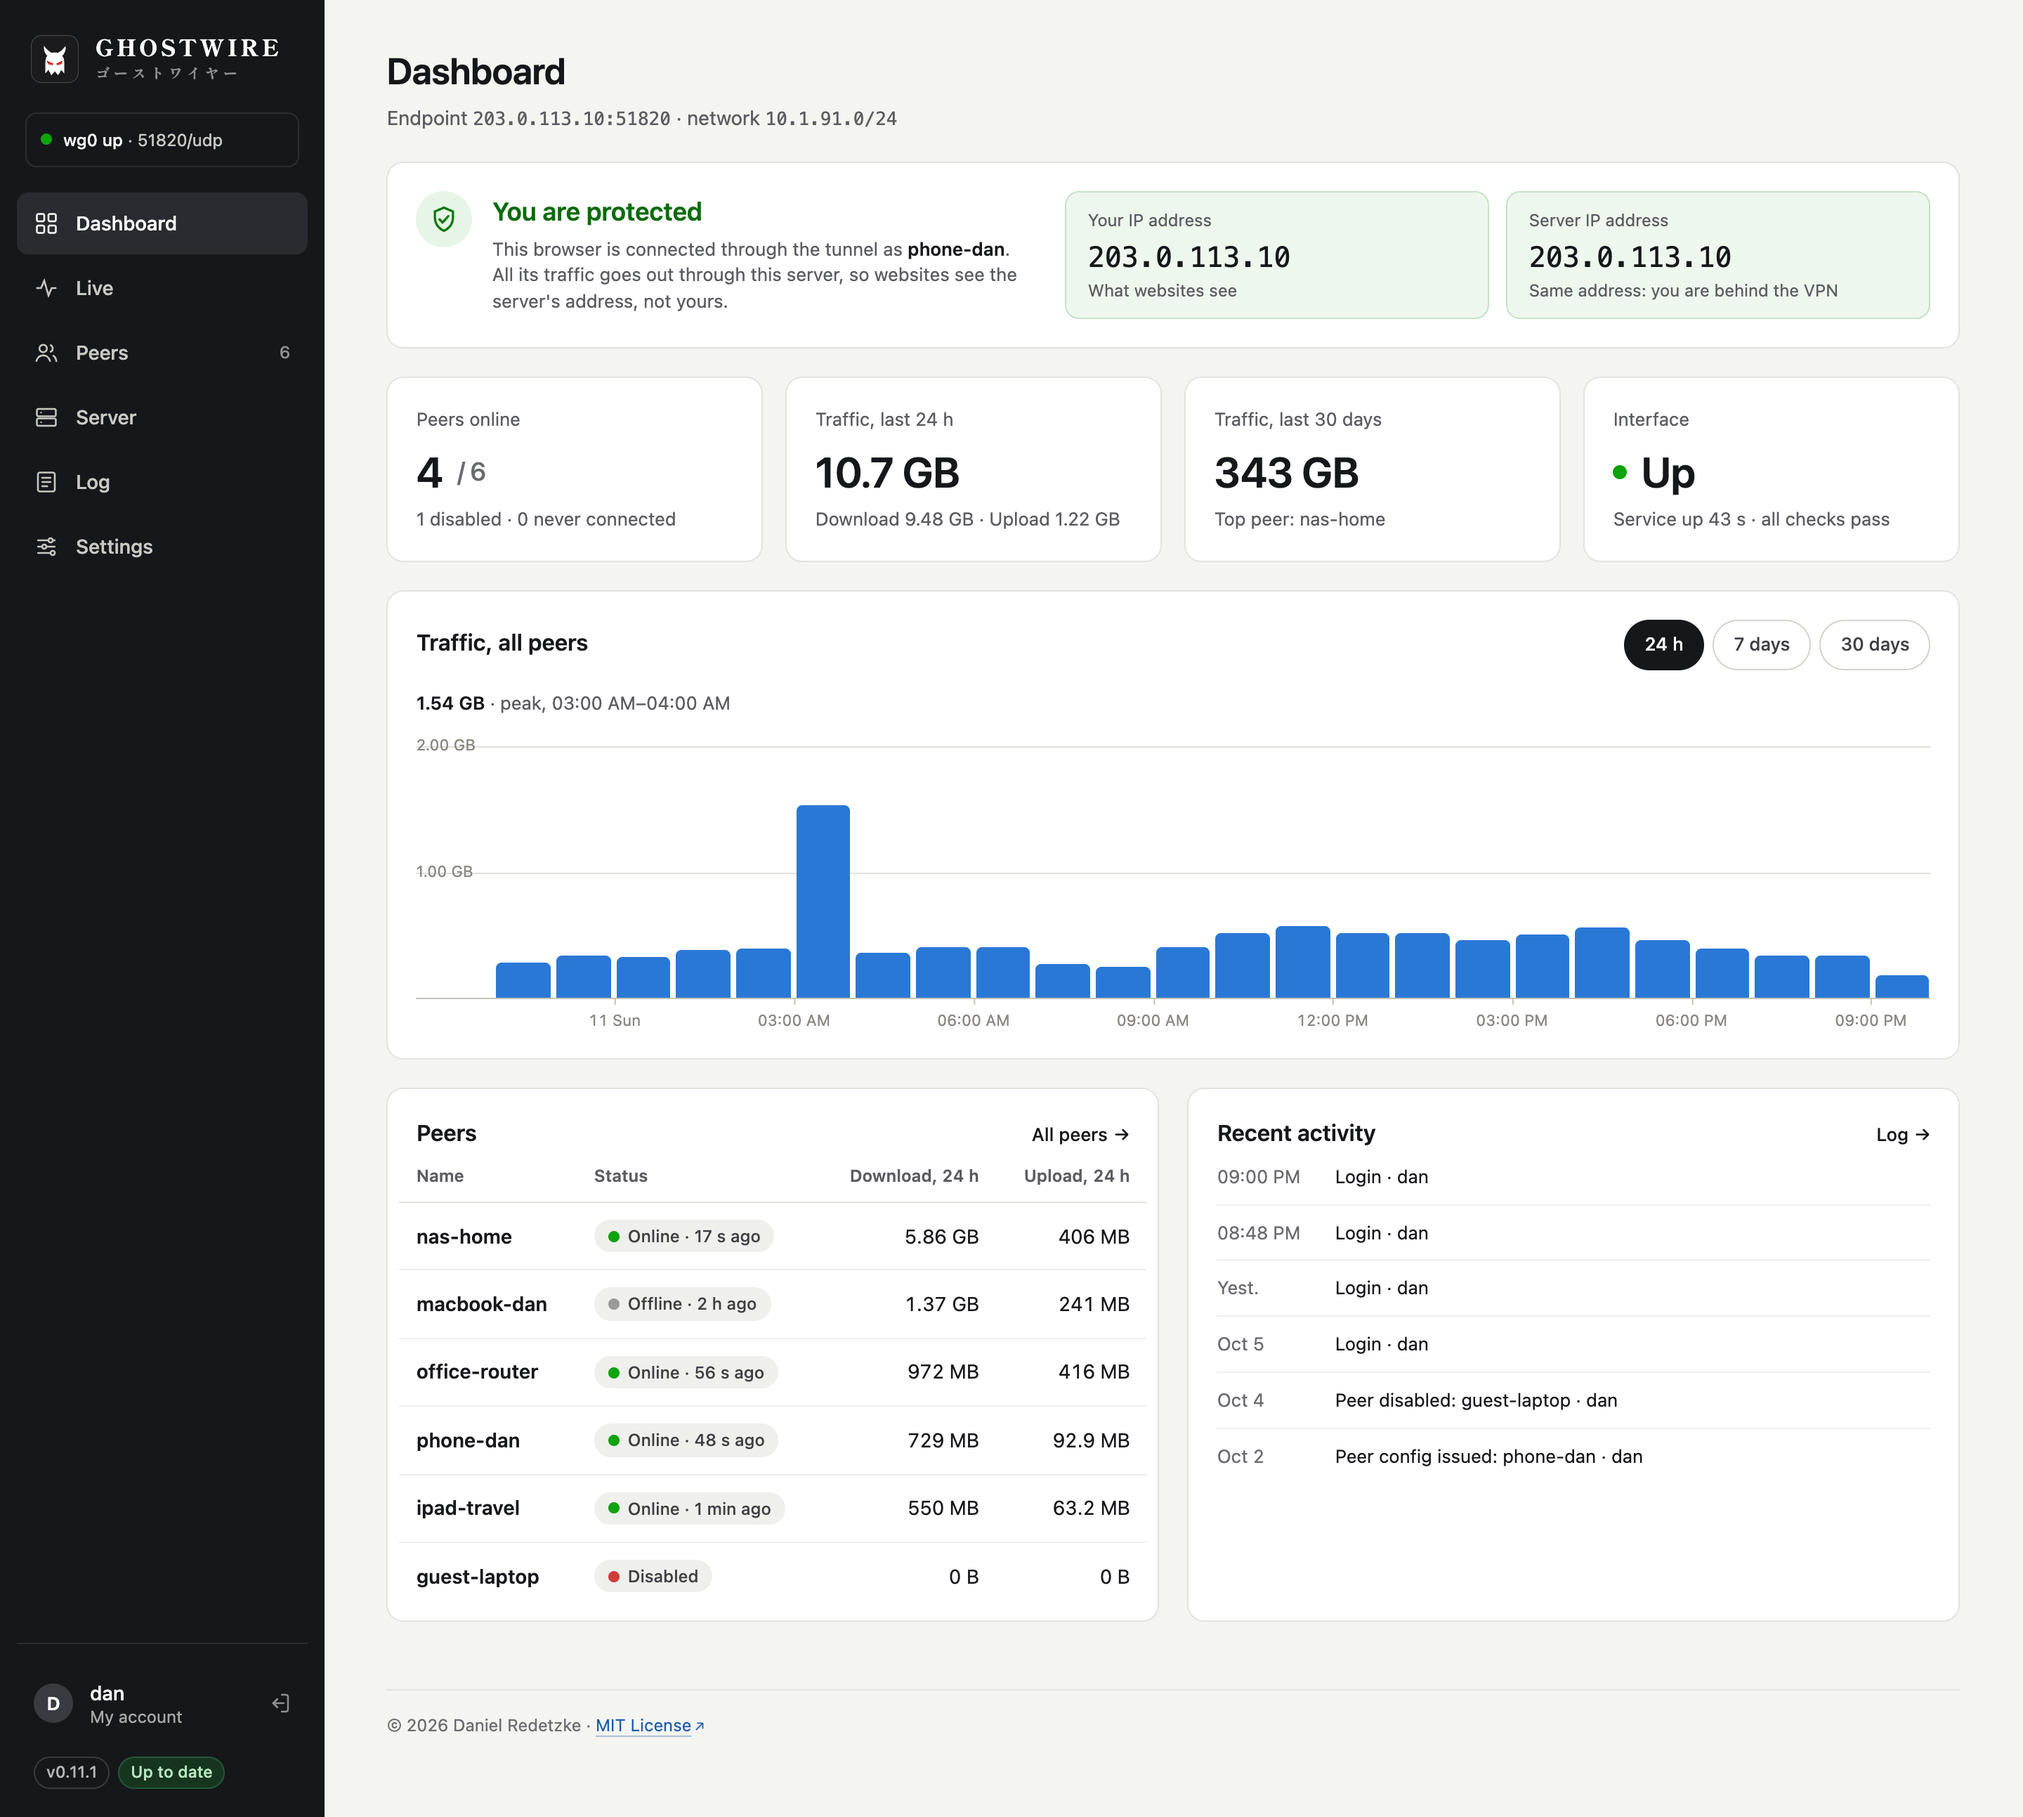
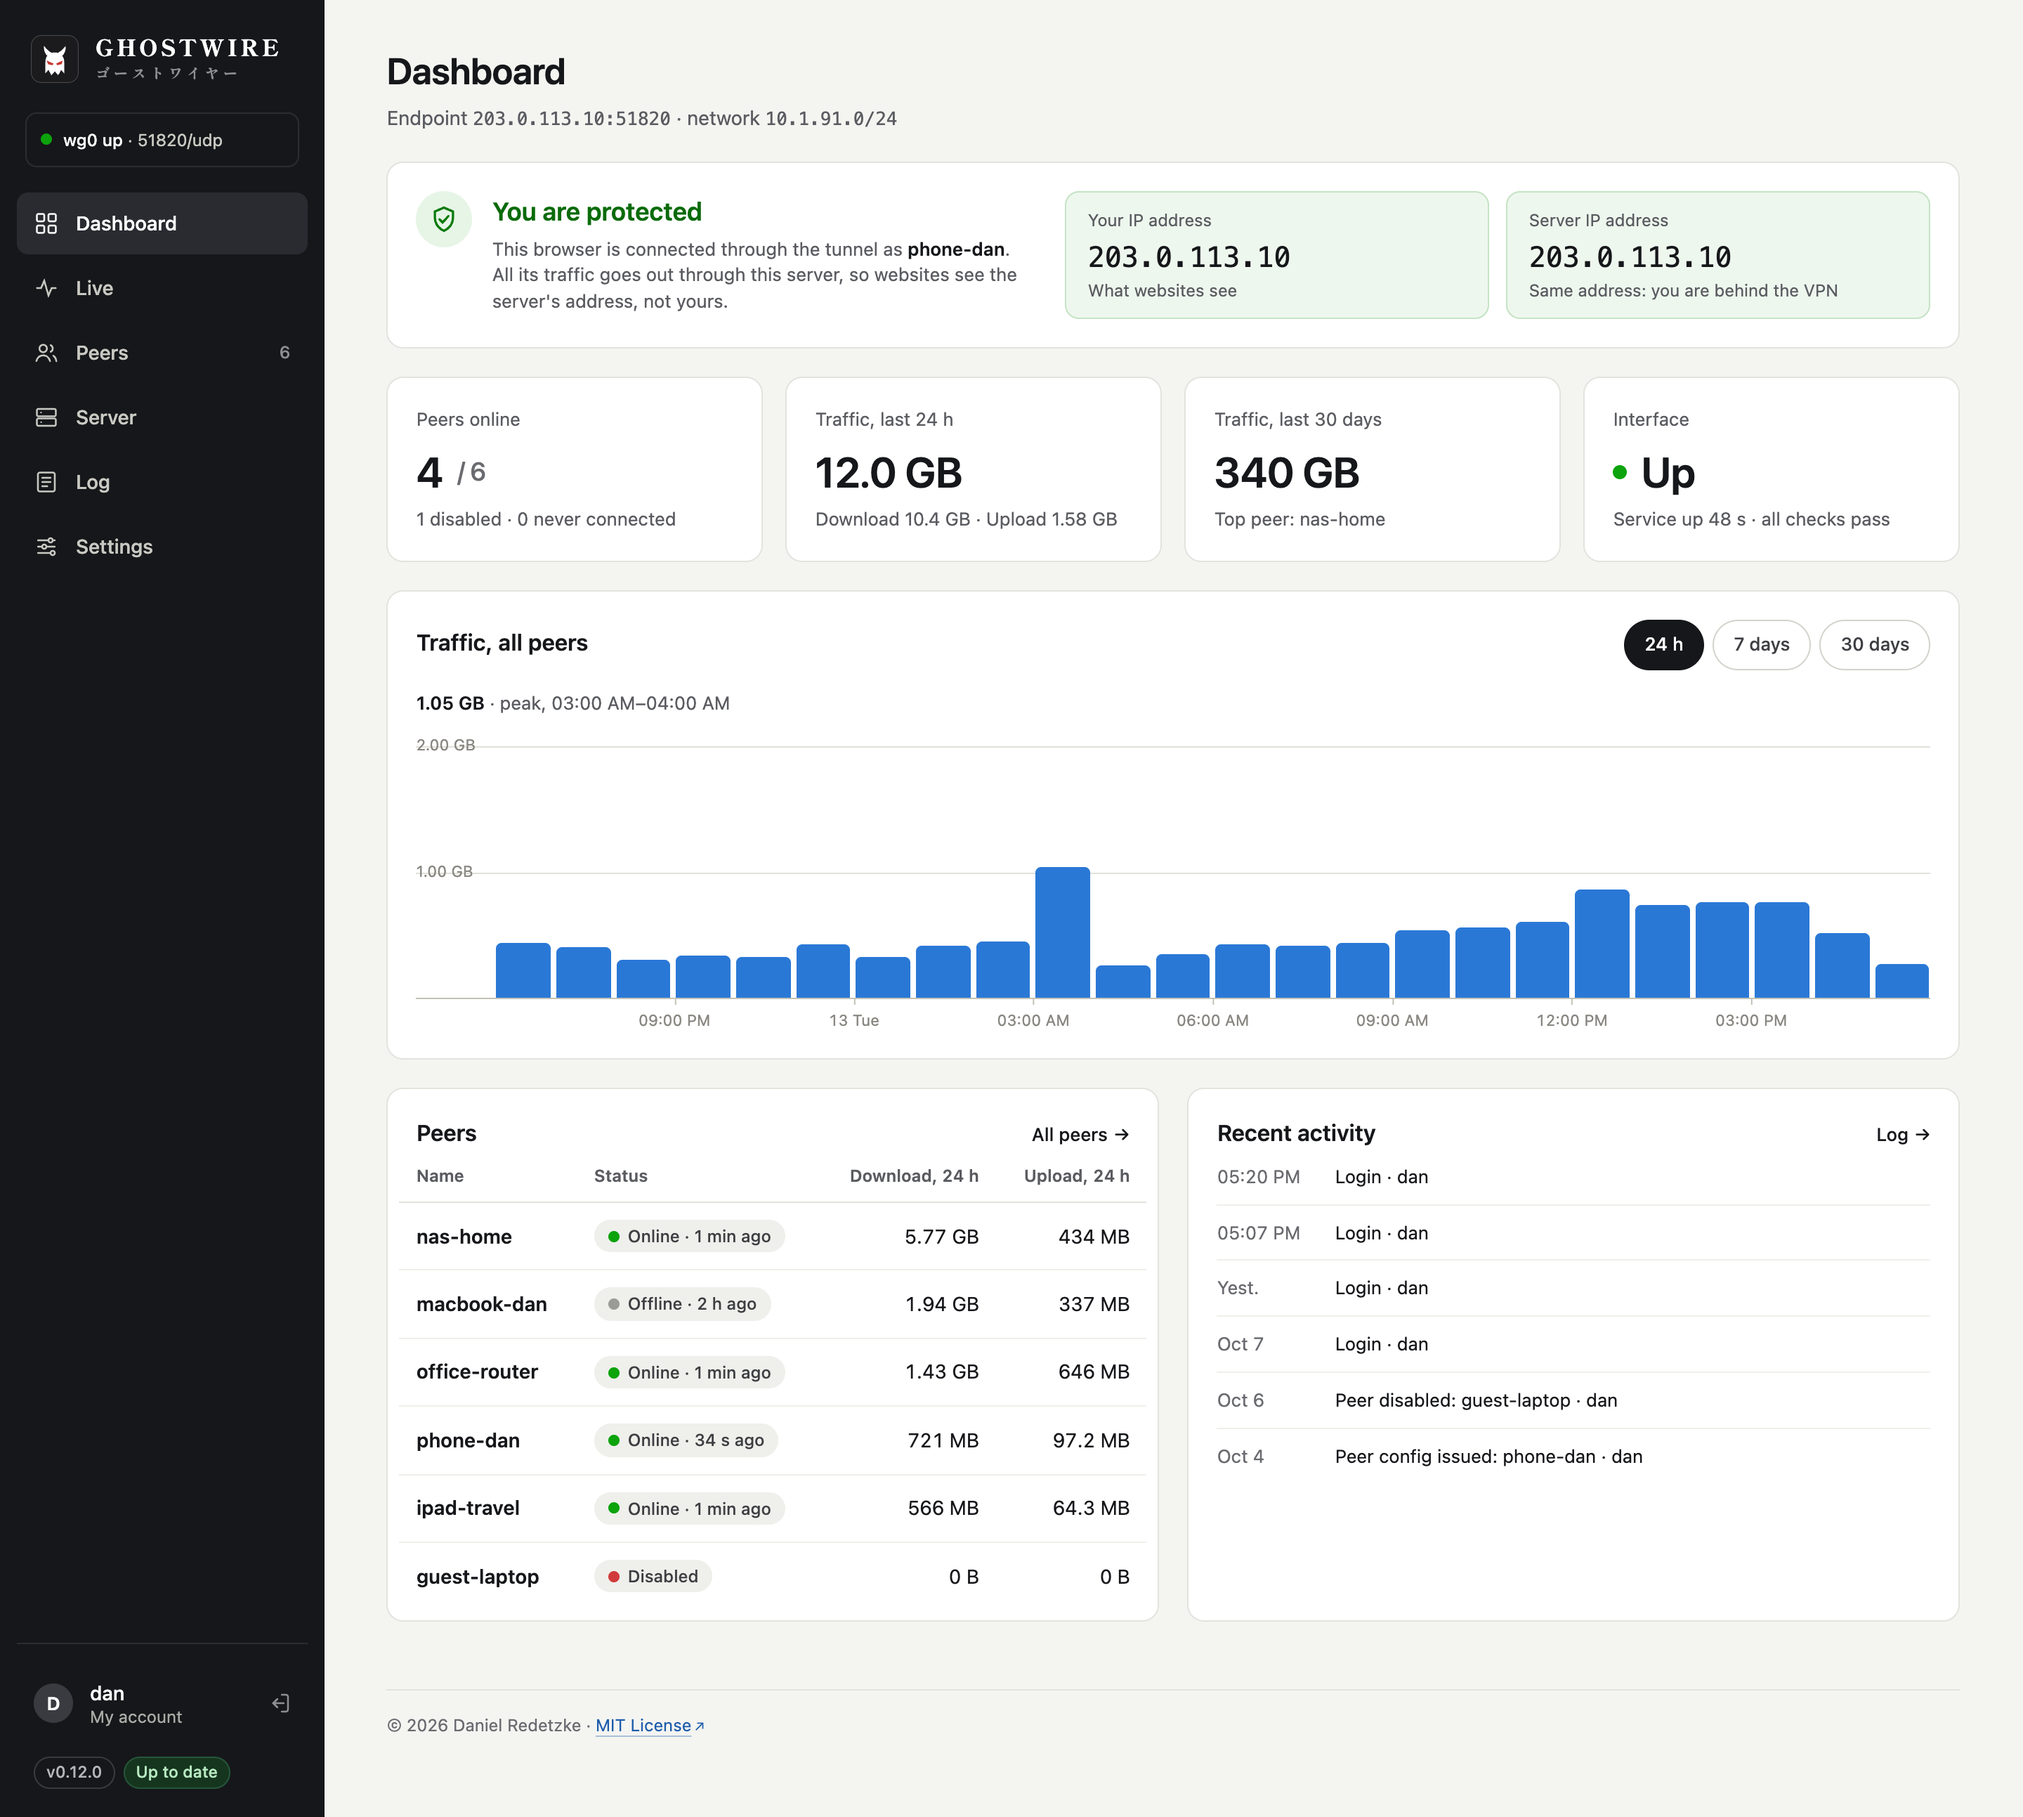
Dashboard screenshot from v0.12.0

diff --git a/index.html b/index.html
@@ -30,7 +30,7 @@
   "description": "Self-hosted WireGuard server manager in a single Go binary, with a web interface, a JSON API and an iPhone app.",
   "url": "https://ghostwi.re/",
   "image": "https://ghostwi.re/og.png?v=6e3ca8fac4",
-  "screenshot": "https://ghostwi.re/dashboard.png?v=d858e629f3",
+  "screenshot": "https://ghostwi.re/dashboard.png?v=4abe95ab35",
   "applicationCategory": "NetworkingApplication",
   "operatingSystem": "Linux",
   "license": "https://opensource.org/licenses/MIT",
@@ -101,7 +101,7 @@
 
 <div class="wrap shot">
   <figure>
-    <img src="dashboard.png?v=d858e629f3" width="2880" height="2586" decoding="async" alt="The GHOSTWIRE dashboard: you are protected, four of six peers online, traffic of the last 24 hours as a bar chart, the peer list and recent activity">
+    <img src="dashboard.png?v=4abe95ab35" width="2880" height="2586" decoding="async" alt="The GHOSTWIRE dashboard: you are protected, four of six peers online, traffic of the last 24 hours as a bar chart, the peer list and recent activity">
   </figure>
 </div>
 
